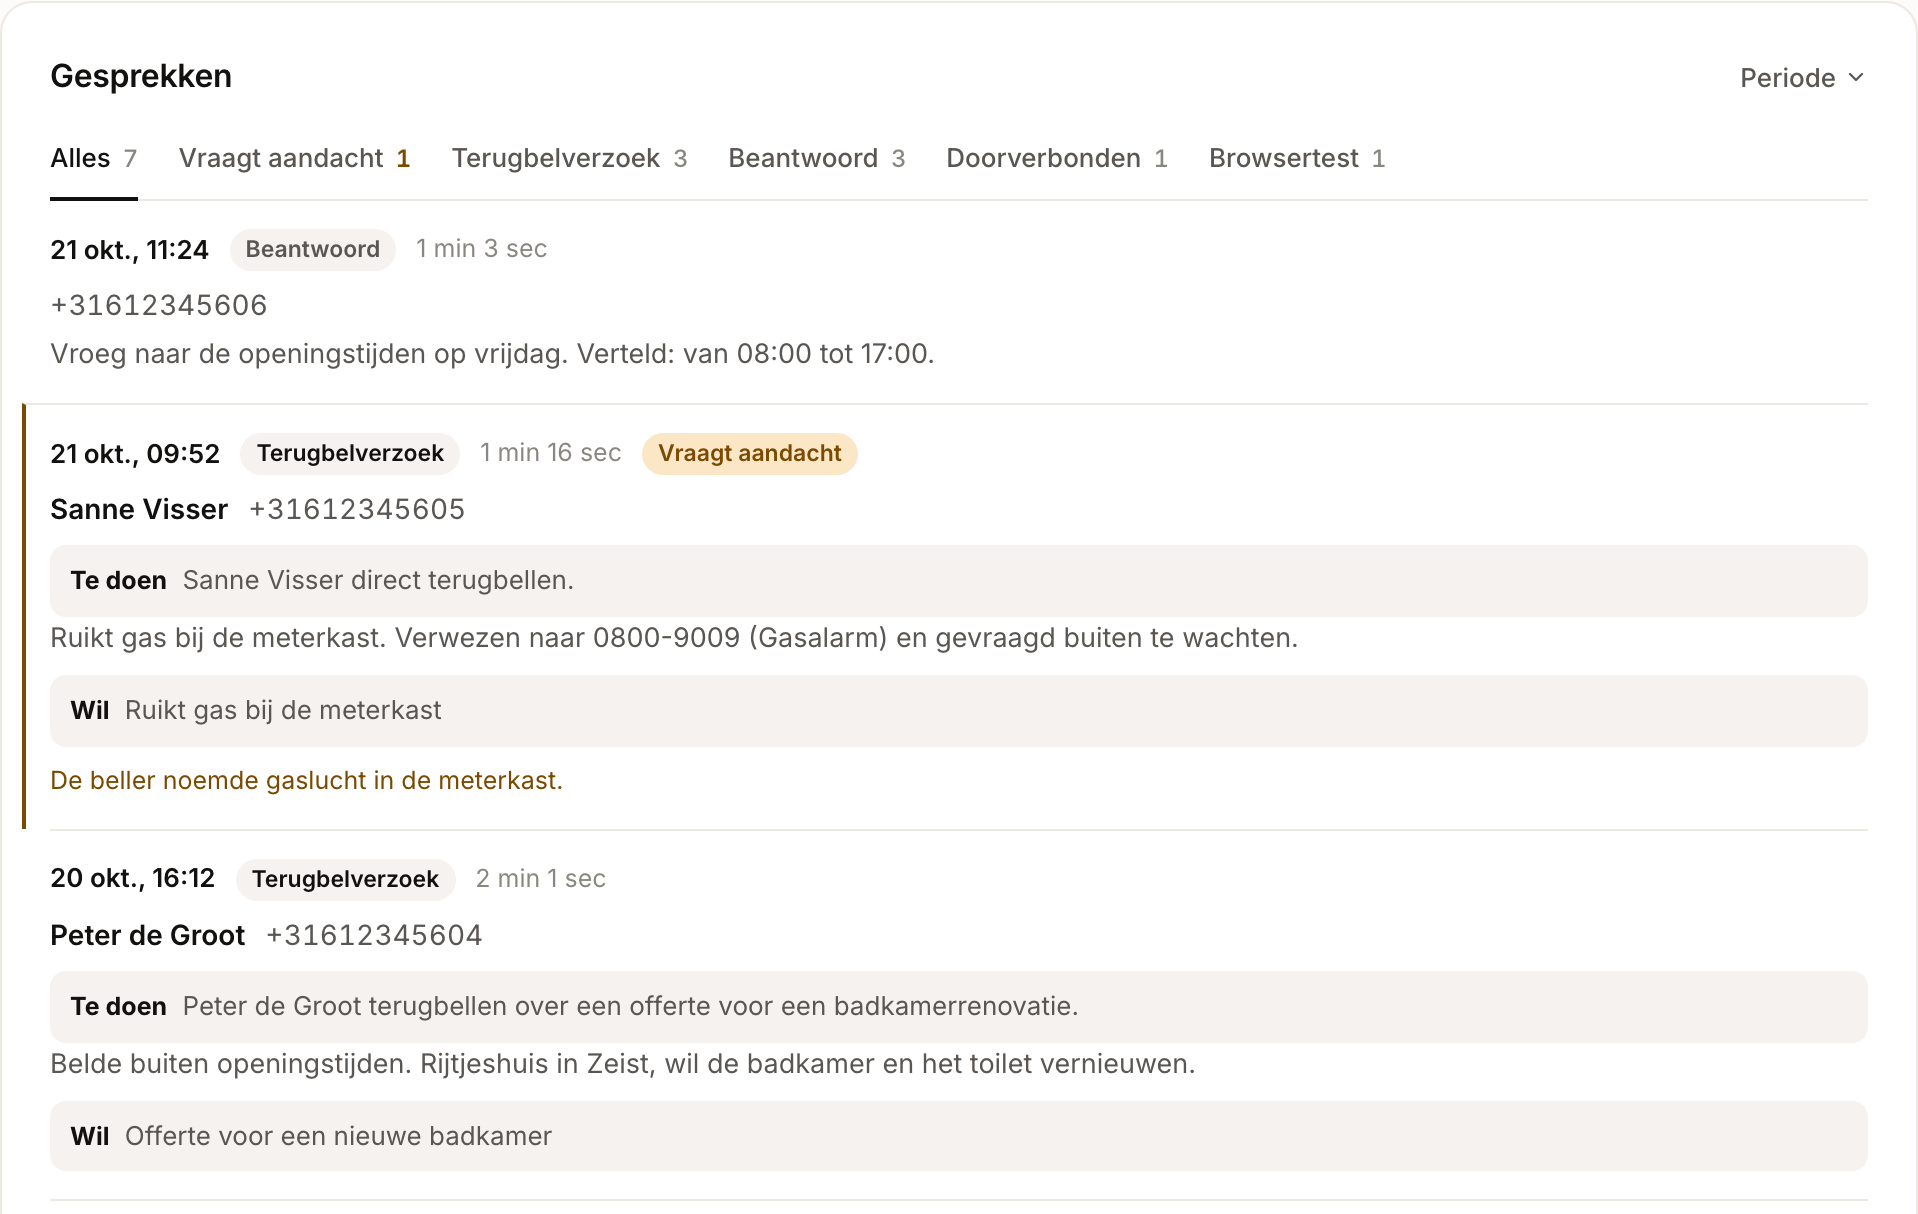
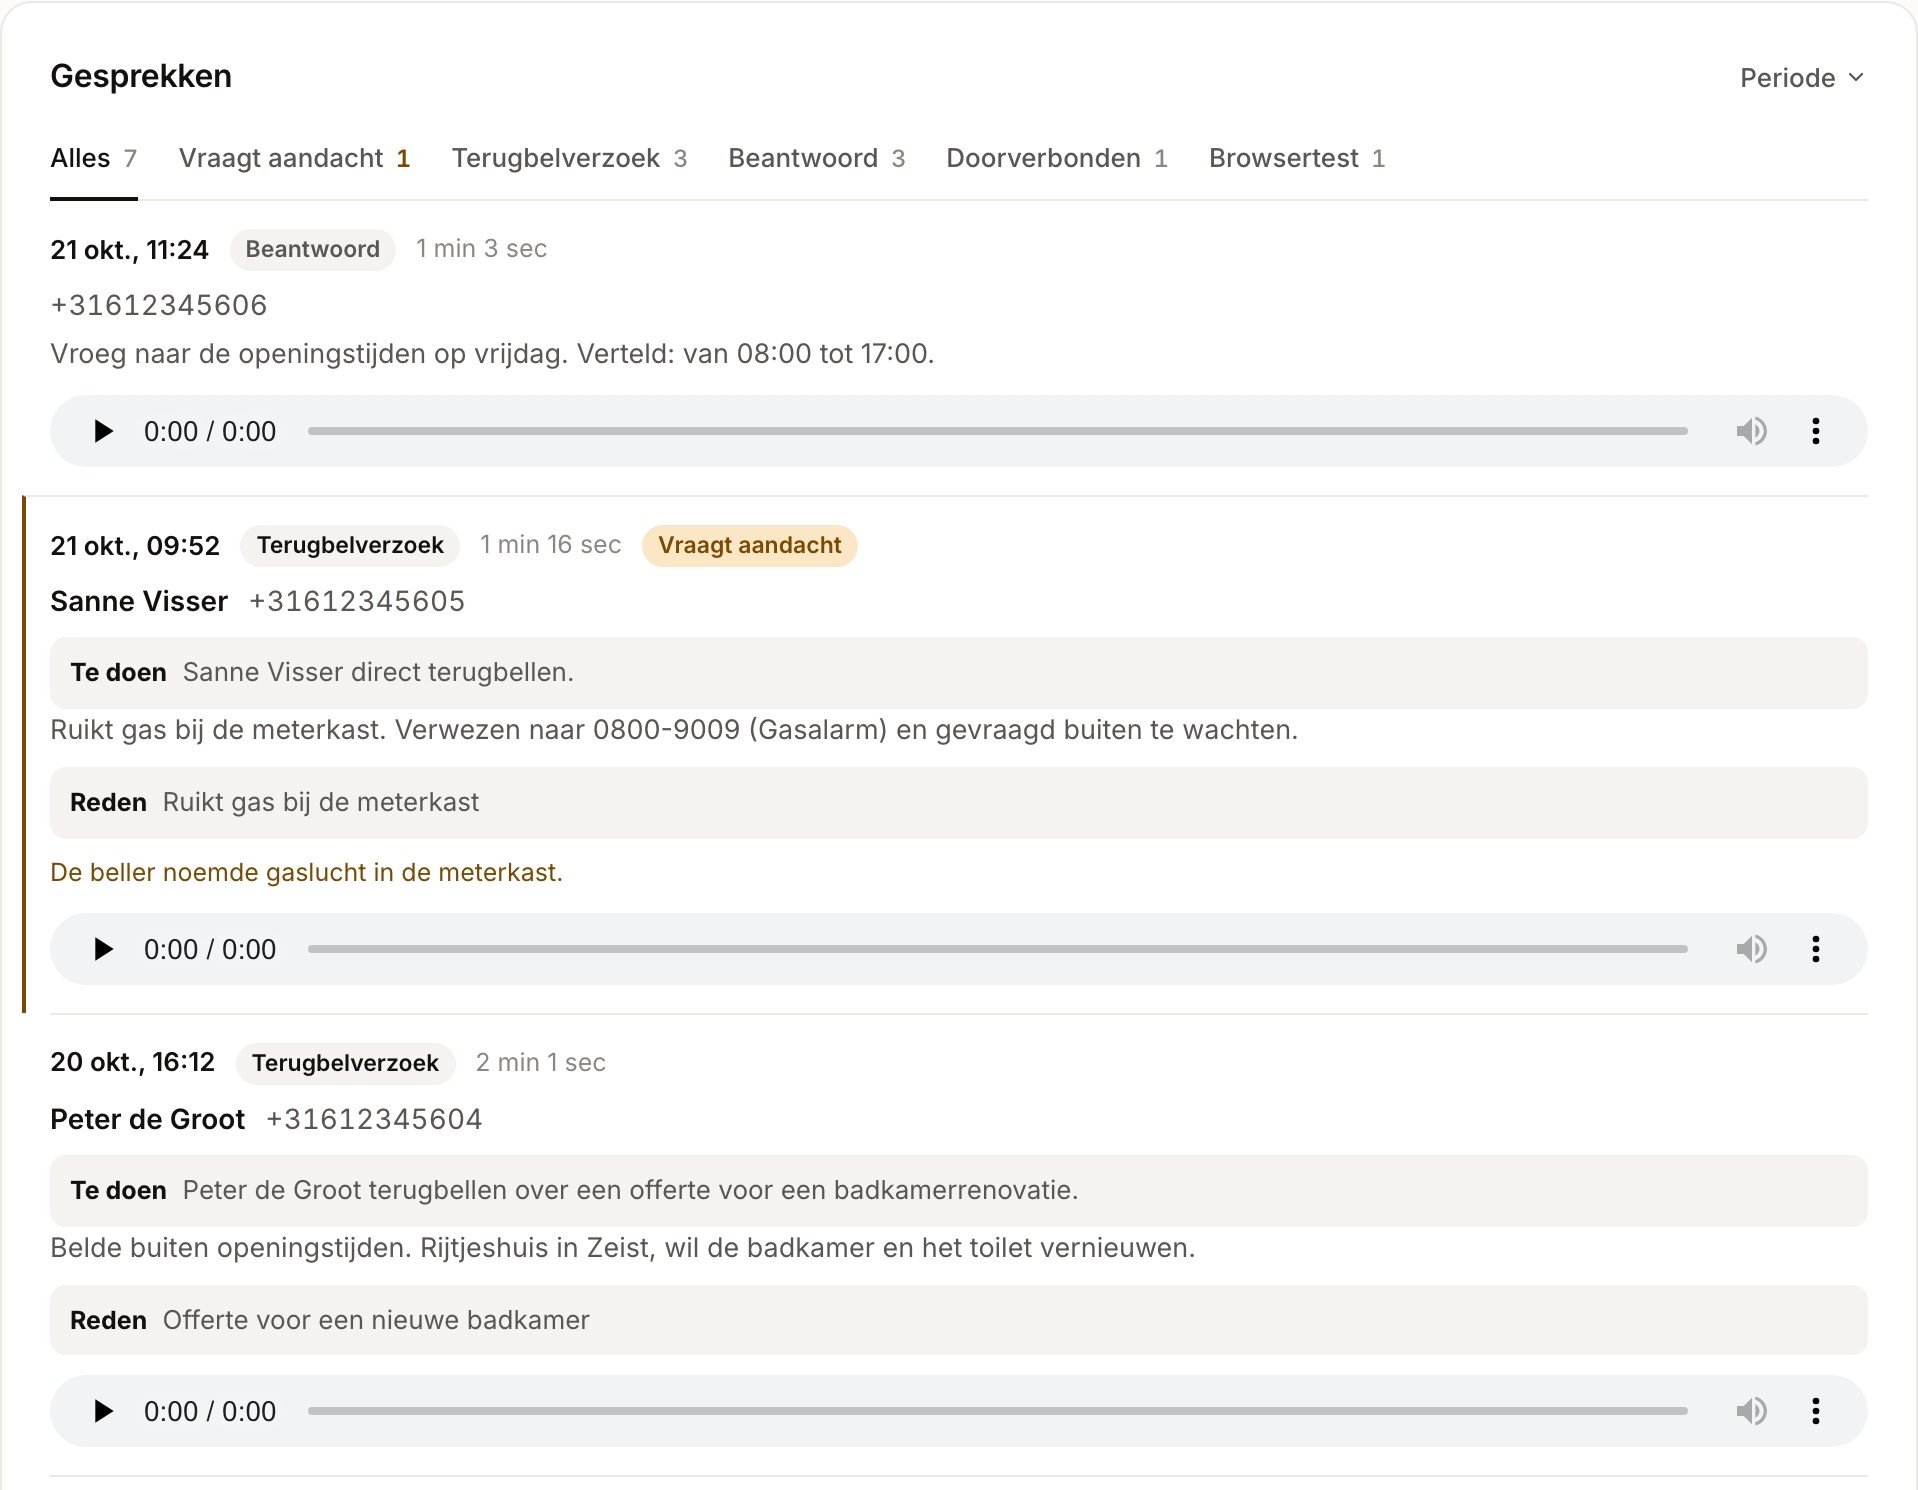
Docs: opname bij elk gesprek, "Reden" in plaats van "Wil"
- telefoon-gesprekken: de opname staat bij elk gesprek en is tot 30 dagen
  na het gesprek af te spelen; het label heet "Reden" (dashboard 71bf584).
  Nieuwe schermafbeelding (?v=20261022), opnieuw gemaakt in de render.
- it-beveiliging: na het gesprek staan een samenvatting en de opname in het
  dashboard.

diff --git a/docs/telefoon-gesprekken.html b/docs/telefoon-gesprekken.html
@@ -82,11 +82,12 @@
 <li>De naam en het nummer van de beller, als de agent die heeft genoteerd.</li>
 <li><strong>Te doen</strong>: wat u nog moet doen, bijvoorbeeld iemand terugbellen. Staat er geen <strong>Te doen</strong> bij, dan hoeft u niets te doen.</li>
 <li>Een korte samenvatting van het gesprek.</li>
-<li><strong>Wil</strong>: het verzoek van de beller, bij een vastgelegde lead.</li>
+<li><strong>Reden</strong>: waarom de beller belde, bij een vastgelegde lead.</li>
+<li>De opname, die u tot 30 dagen na het gesprek kunt afspelen.</li>
 </ul>
 
 <div class="docs-media docs-media--shot">
-<a href="../assets/docs/telefoon-gesprekken-2-lijst.webp?v=20261021b" target="_blank" rel="noopener"><img src="../assets/docs/telefoon-gesprekken-2-lijst.webp?v=20261021b" alt="De kaart Gesprekken met de knop Periode, de labels met hun aantal en drie gesprekken met label, duur, beller, Te doen en samenvatting" width="959" height="607" loading="lazy" /></a>
+<a href="../assets/docs/telefoon-gesprekken-2-lijst.webp?v=20261022" target="_blank" rel="noopener"><img src="../assets/docs/telefoon-gesprekken-2-lijst.webp?v=20261022" alt="De kaart Gesprekken met de knop Periode, de labels met hun aantal en drie gesprekken met label, duur, beller, Te doen, samenvatting en opname" width="959" height="745" loading="lazy" /></a>
 </div>
 <p class="docs-media-caption">Drie gesprekken in de lijst. Het tweede vraagt aandacht.</p>
 

diff --git a/docs/it-beveiliging.html b/docs/it-beveiliging.html
@@ -60,7 +60,7 @@
 <h2>Welke gegevens de agent verwerkt</h2>
 <ul>
 <li><strong>Telefoon</strong>: de gesprekken die de agent voert. Elke beller hoort aan het begin dat hij met een digitale assistent
-  spreekt en dat het gesprek wordt opgenomen. Na het gesprek staat er een samenvatting in het dashboard, met de naam, het nummer en
+  spreekt en dat het gesprek wordt opgenomen. Na het gesprek staan er een samenvatting en de opname in het dashboard, met de naam, het nummer en
   het verzoek van de beller als de agent die noteerde.</li>
 <li><strong>E-mail</strong>: de e-mail in Postvak IN van de gekoppelde mailbox. Volgens het dashboard krijgt de agent alleen lees- en
   verzendtoegang tot die ene mailbox, versleuteld opgeslagen. Verzonden e-mail van de afgelopen 30 dagen wordt alleen geanalyseerd als
